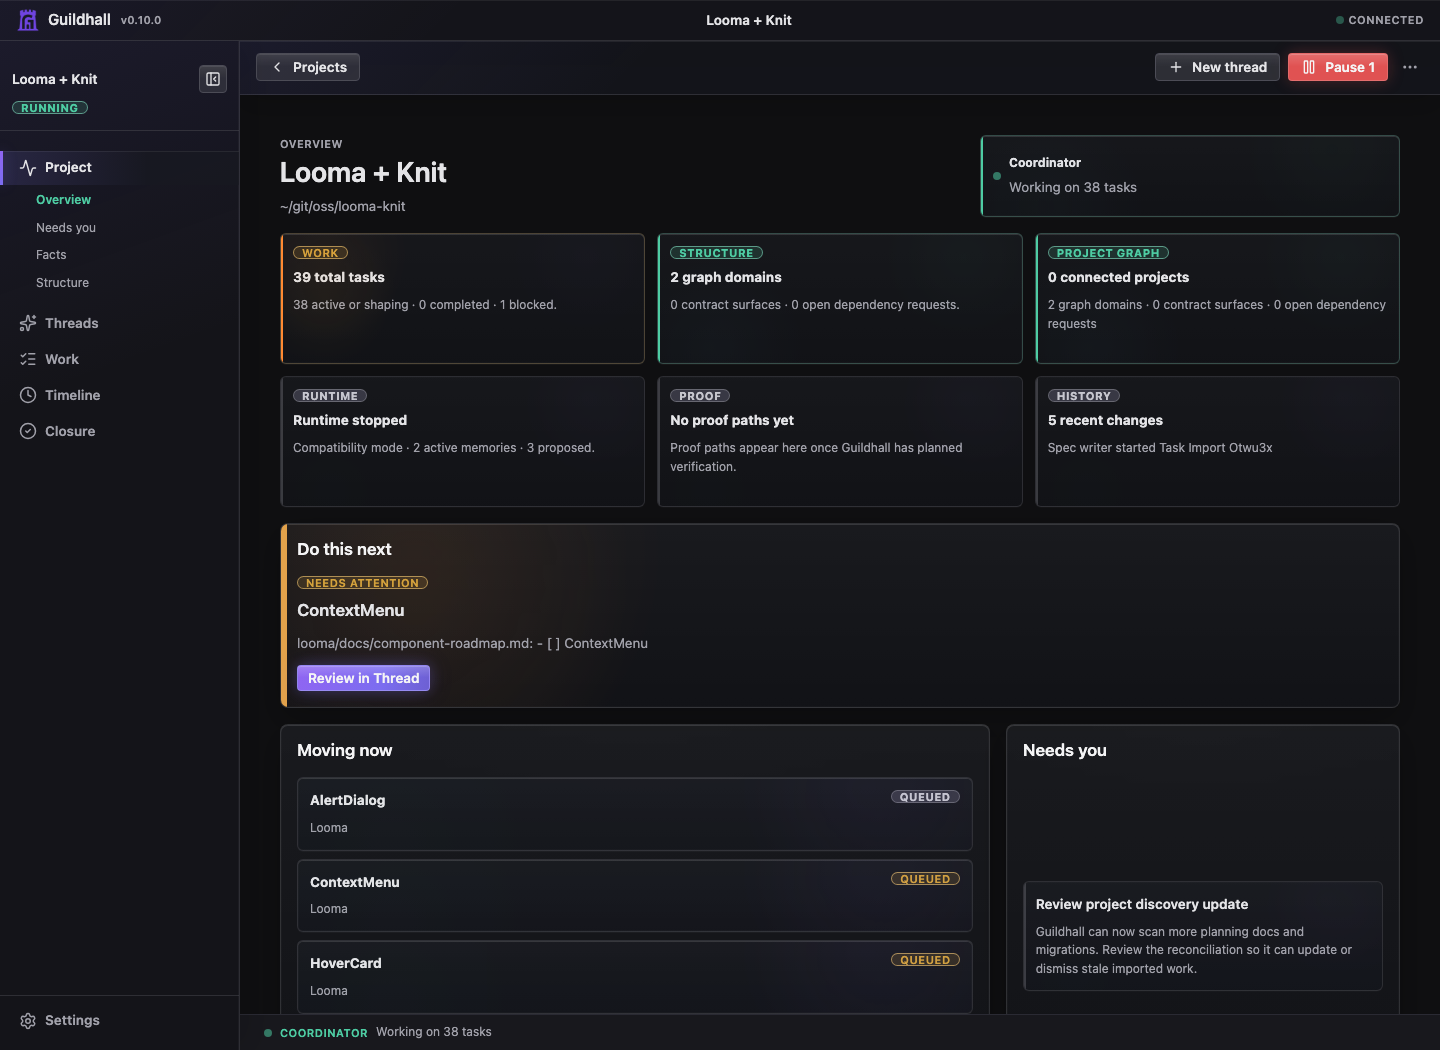
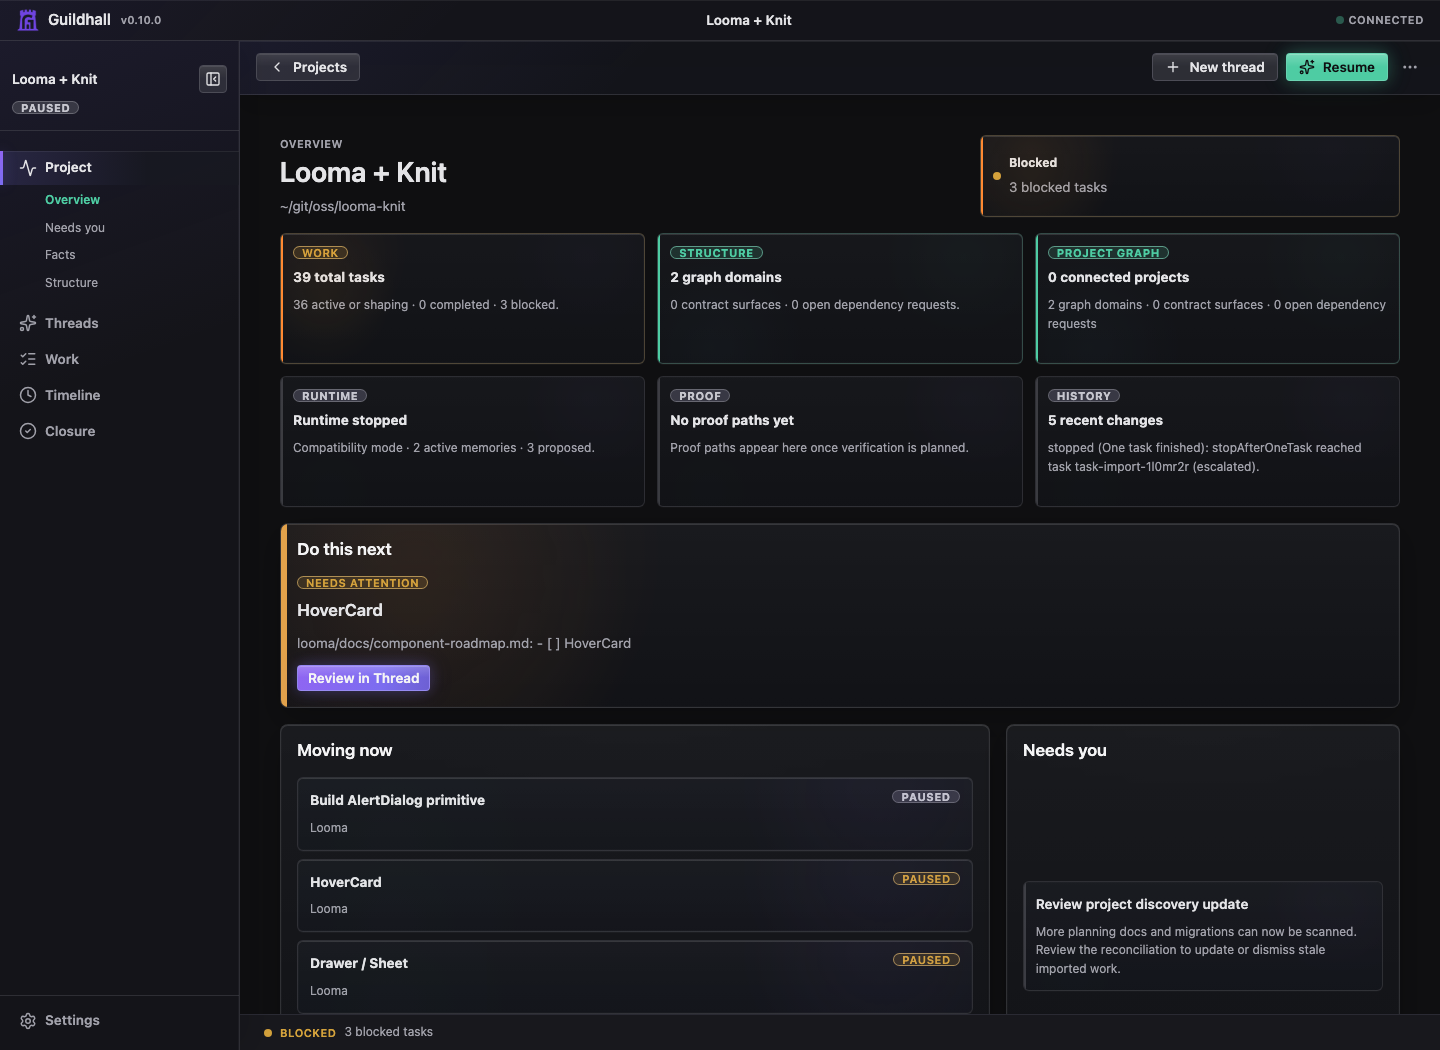
Align project rail subnav labels

diff --git a/src/web/surfaces/ProjectView.svelte b/src/web/surfaces/ProjectView.svelte
@@ -1715,7 +1715,7 @@
     color: var(--text-muted);
     font: inherit;
     font-size: var(--gh-type-size-meta);
-    padding: var(--s-1) var(--s-3) var(--s-1) calc(var(--s-3) + 24px);
+    padding: var(--s-1) var(--s-3) var(--s-1) calc((56px - 18px) / 2 + 18px + var(--s-2));
     cursor: pointer;
     border-radius: 0;
   }
@@ -2046,7 +2046,7 @@
       padding: var(--s-3) var(--s-4);
     }
     .rail.rail-mobile-open .rail-sub {
-      padding: var(--s-2) var(--s-4) var(--s-2) calc(var(--s-4) + 24px);
+      padding: var(--s-2) var(--s-4) var(--s-2) calc(var(--s-4) + 18px + var(--s-2));
     }
     .rail.rail-mobile-open .rail-nav {
       gap: var(--s-1);
